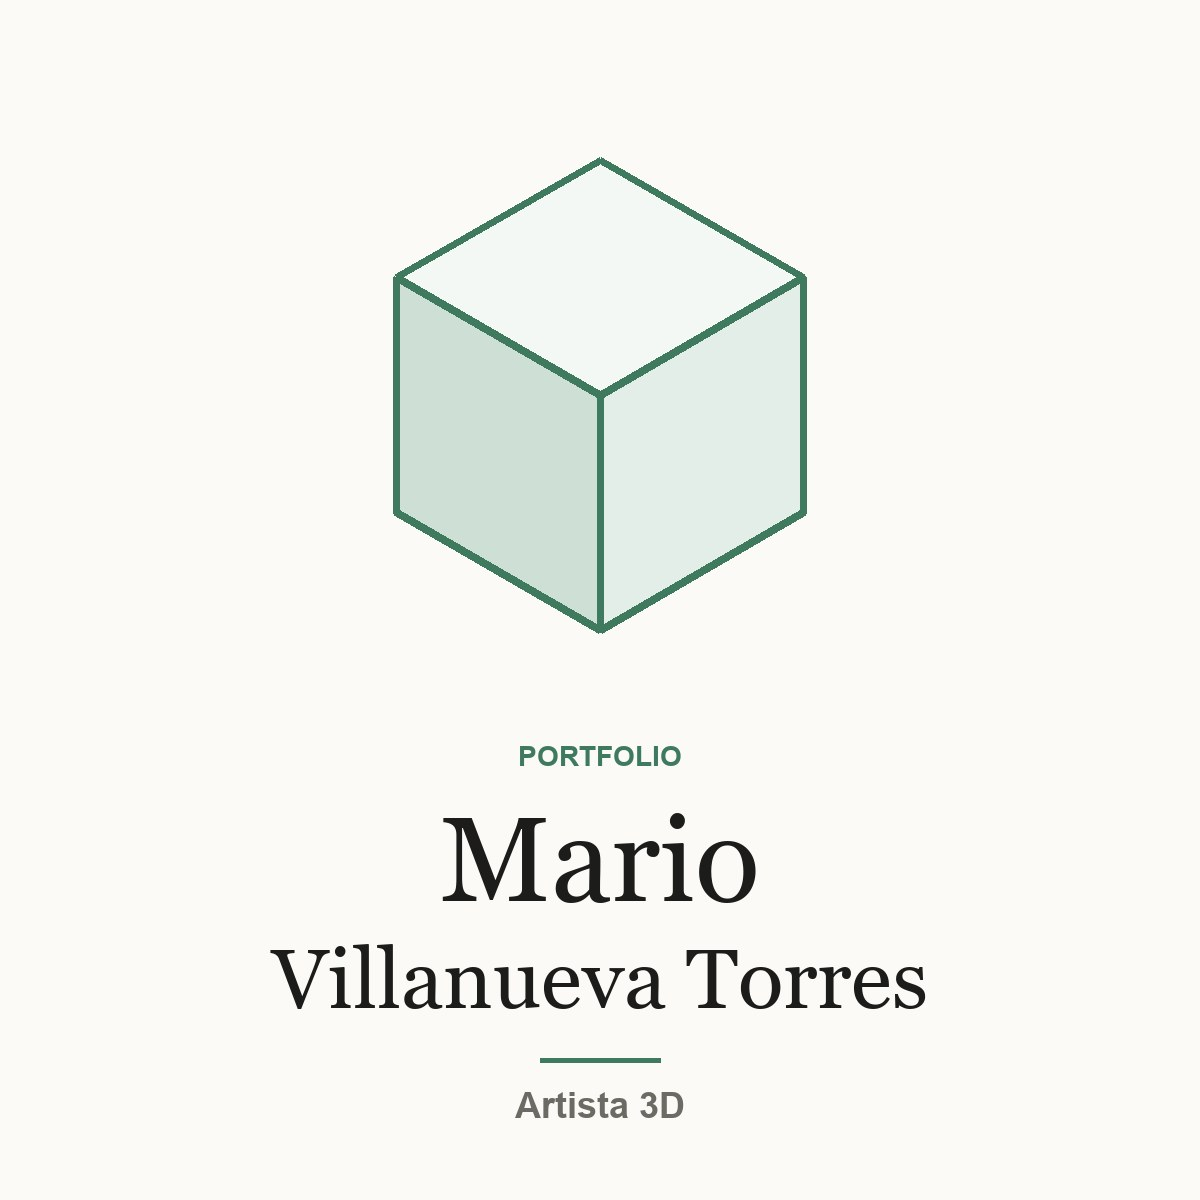
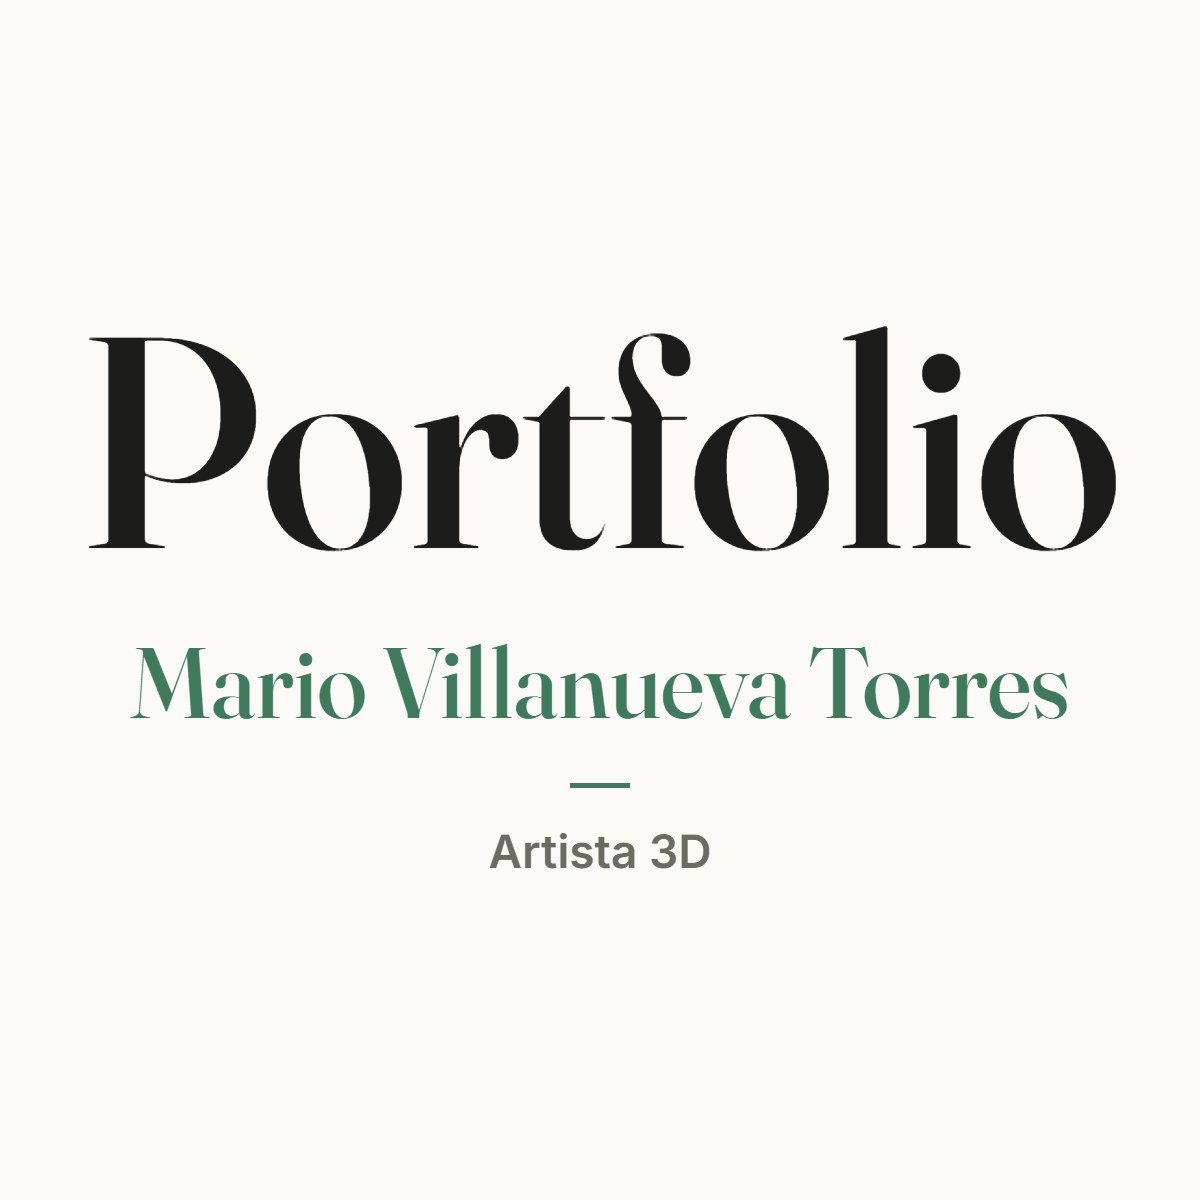
Miniaturas: Portfolio grande en negro y nombre en verde con la tipografía de la web, sin cubo

diff --git a/scripts/og/index.html b/scripts/og/index.html
@@ -1,0 +1,36 @@
+<!doctype html>
+<meta charset="utf-8" />
+<title>Generando…</title>
+<link href="https://fonts.googleapis.com/css2?family=Fraunces:opsz,wght@9..144,300..900&family=Inter:wght@600&display=swap" rel="stylesheet" />
+<script>
+  // Miniaturas cuadradas para compartir el enlace, con la tipografía de la web.
+  const INK = '#1c1c1a', GREEN = '#3f7a5f', MUTED = '#6b6a63', BG = '#fbfaf7';
+  const ROLES = {
+    'artista-3d': { es: 'Artista 3D', en: '3D Artist', ca: 'Artista 3D', gl: 'Artista 3D' },
+    videojuegos: { es: 'Diseñador de Videojuegos', en: 'Game Designer', ca: 'Dissenyador de Videojocs', gl: 'Deseñador de Videoxogos' },
+    editor: { es: 'Editor de Vídeo', en: 'Video Editor', ca: 'Editor de Vídeo', gl: 'Editor de Vídeo' },
+  };
+  function draw(role) {
+    const c = document.createElement('canvas');
+    c.width = c.height = 1200;
+    const x = c.getContext('2d');
+    x.fillStyle = BG; x.fillRect(0, 0, 1200, 1200);
+    x.textAlign = 'center'; x.textBaseline = 'alphabetic';
+    const top = role ? 548 : 623;
+    x.fillStyle = INK; x.font = '500 300px Fraunces'; x.fillText('Portfolio', 600, top);
+    x.fillStyle = GREEN; x.font = '500 100px Fraunces'; x.fillText('Mario Villanueva Torres', 600, top + 170);
+    if (role) {
+      x.fillRect(570, top + 235, 60, 5);
+      x.fillStyle = MUTED; x.font = '600 46px Inter'; x.fillText(role, 600, top + 320);
+    }
+    return c.toDataURL('image/png');
+  }
+  async function run() {
+    await Promise.all([document.fonts.load('500 300px Fraunces'), document.fonts.load('600 46px Inter')]);
+    const jobs = [['og-general', null]];
+    for (const [slug, names] of Object.entries(ROLES)) for (const [lang, n] of Object.entries(names)) jobs.push([`og-${slug}-${lang}`, n]);
+    for (const [name, role] of jobs) await fetch(`/save?name=${name}`, { method: 'POST', body: draw(role) });
+    document.title = `LISTO ${jobs.length}`;
+  }
+  run();
+</script>

diff --git a/scripts/og/server.py b/scripts/og/server.py
@@ -1,0 +1,23 @@
+# Recibe las miniaturas dibujadas por scripts/og/index.html y las guarda en public/og/.
+# Uso: python scripts/og/server.py  y abrir http://localhost:5195/scripts/og/index.html en el navegador.
+import base64, io, os, re
+from http.server import SimpleHTTPRequestHandler, HTTPServer
+from PIL import Image
+
+ROOT = os.path.abspath(os.path.join(os.path.dirname(__file__), '..', '..'))
+os.chdir(ROOT)
+
+
+class Handler(SimpleHTTPRequestHandler):
+    def do_POST(self):
+        name = re.sub(r'[^a-z0-9-]', '', self.path.split('name=')[-1])
+        data = self.rfile.read(int(self.headers['Content-Length'])).decode().split(',', 1)[1]
+        Image.open(io.BytesIO(base64.b64decode(data))).convert('RGB').save(f'public/og/{name}.jpg', quality=88, optimize=True)
+        self.send_response(200)
+        self.end_headers()
+
+    def log_message(self, *args):
+        pass
+
+
+HTTPServer(('127.0.0.1', 5195), Handler).serve_forever()
